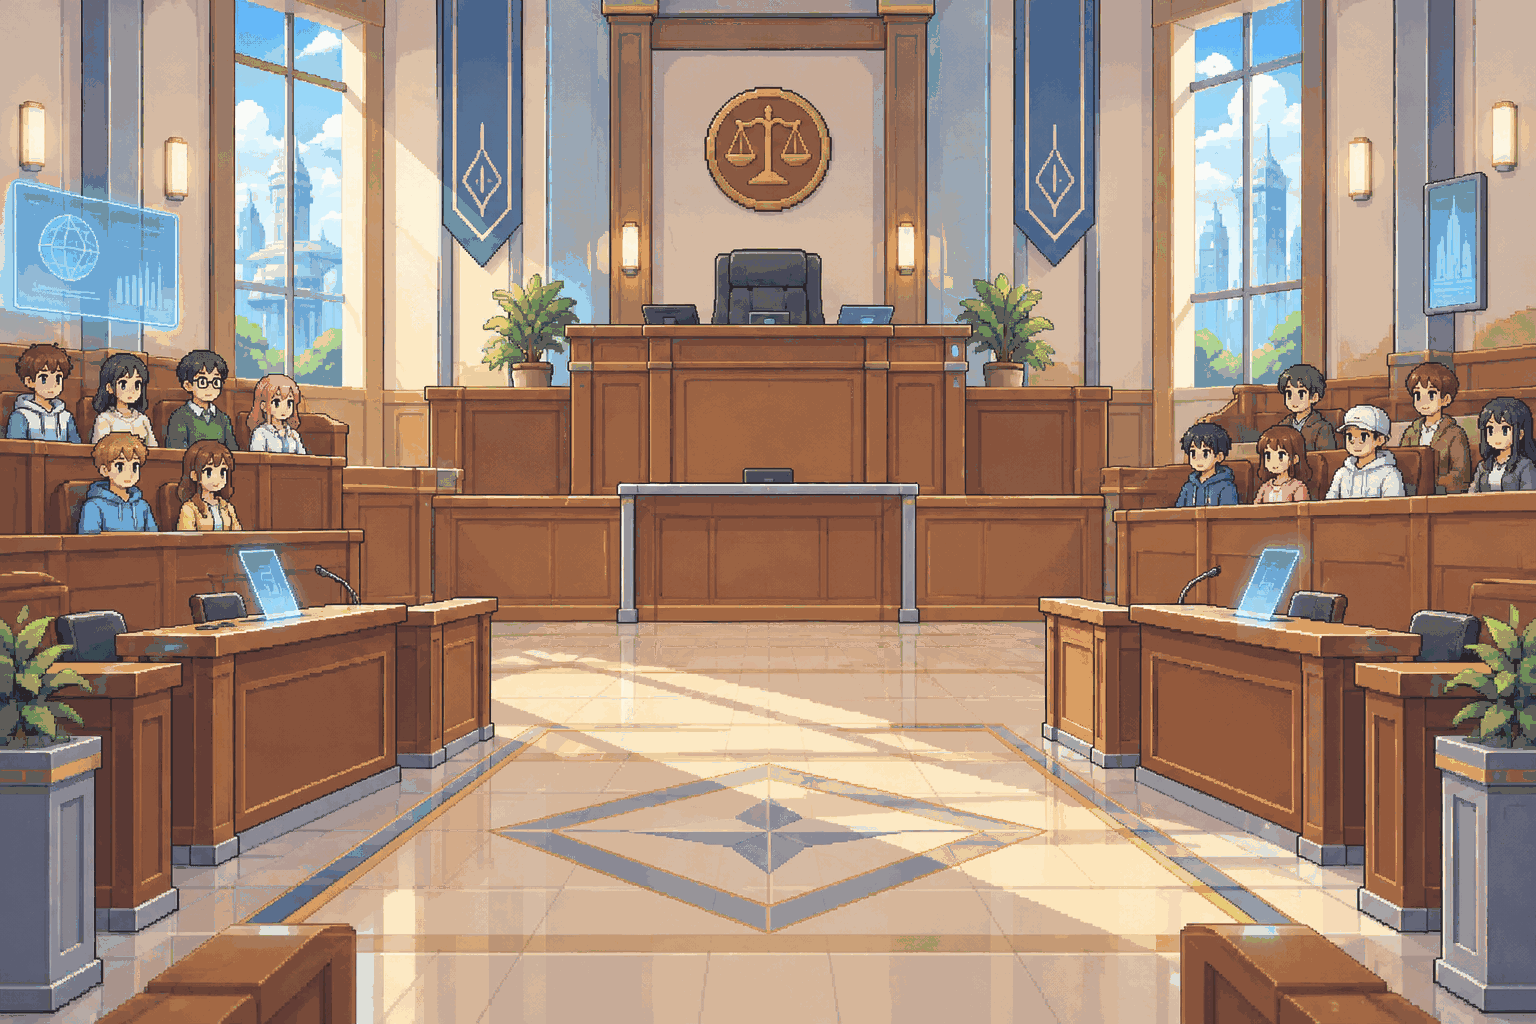
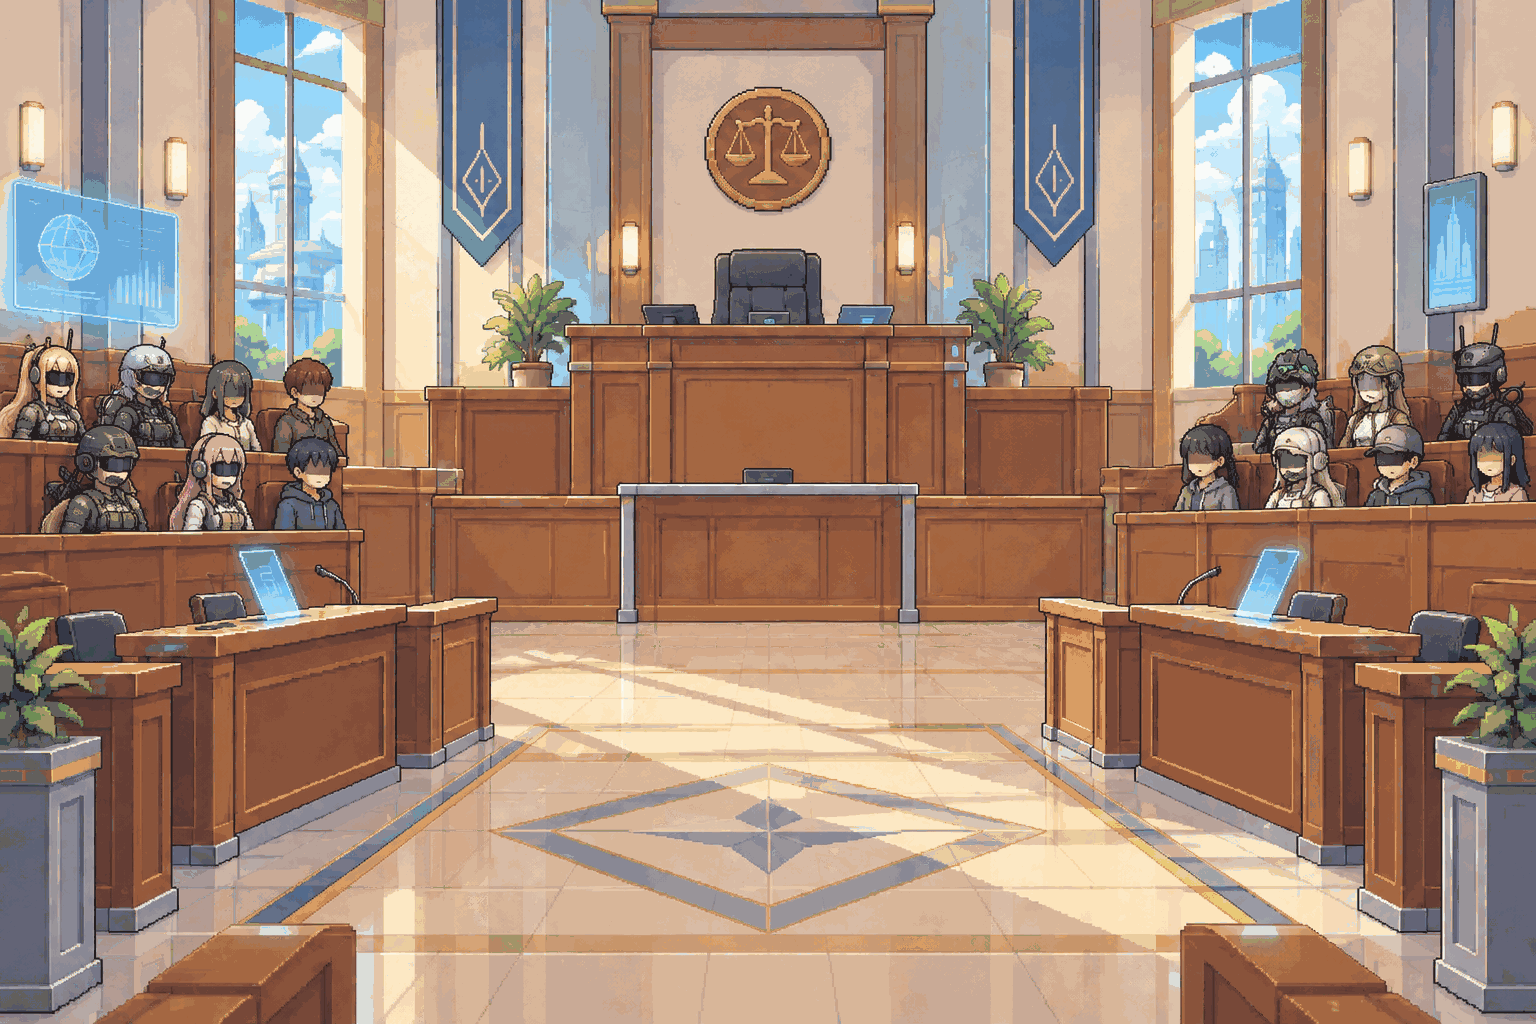
법정 관중을 양산형 니케·눈 가린 남녀 NPC로 교체

diff --git a/data/case1.js b/data/case1.js
@@ -125,7 +125,7 @@ window.CASE = {
 
     { op: 'chapter', text: '제1심', sub: '독잔 사건' },
     { op: 'fx', kind: 'murmur', text: '저게 그 나유타래…' },
-    { who: null, line: '배심원석과 방청석은 방주 시민들로 가득하다. 모두 나유타를 흘끔거리며 수군댄다.' },
+    { who: null, line: '배심원석과 방청석은 양산형 니케와 방주 시민들로 가득하다. 모두 나유타를 흘끔거리며 수군댄다.' },
     { who: 'me', line: '(…다들 결과만 듣고 온 얼굴이다. 오늘 그 얼굴들을 바꿔 놓겠다.)' },
     { who: 'judge', line: '정숙. 방주법 제1심을 개정합니다. 피고, 니케 나유타.' },
     { who: 'judge', line: '과거 사례 검색 결과, 일치하는 사례 0건. 본 재판은 선례 없이 진행합니다.' },

diff --git a/tools/make_assets.py b/tools/make_assets.py
@@ -15,7 +15,7 @@ from make_portraits import KU_DRAW, ROOT, RAW, remove_background  # noqa: E402
 STYLE = ("16-bit retro game pixel art, clearly visible chunky square pixels, limited palette, "
          "clean dark outline, no text, no letters, no UI.")
 
-# 참고: 지금 게임 배경(assets/bg/court.png)은 밝은 캐주얼 시안 assets/raw/bg_casual_2.png를 골라 넣은 것이다.
+# 참고: 지금 게임 배경(assets/bg/court.png)은 assets/raw/bg_mass_2.png(밝은 캐주얼 + 양산형 니케·눈 가린 NPC 관중)를 골라 넣은 것이다.
 # 아래 BG는 처음 만든 어두운 배경의 지시문이다. 다시 돌리면 어두운 배경으로 덮어쓰니 주의.
 BG = ("Wide pixel art background of a futuristic underground-city courtroom interior, seen from the front. "
       "A high judge's bench in the back center under a large round emblem. "
